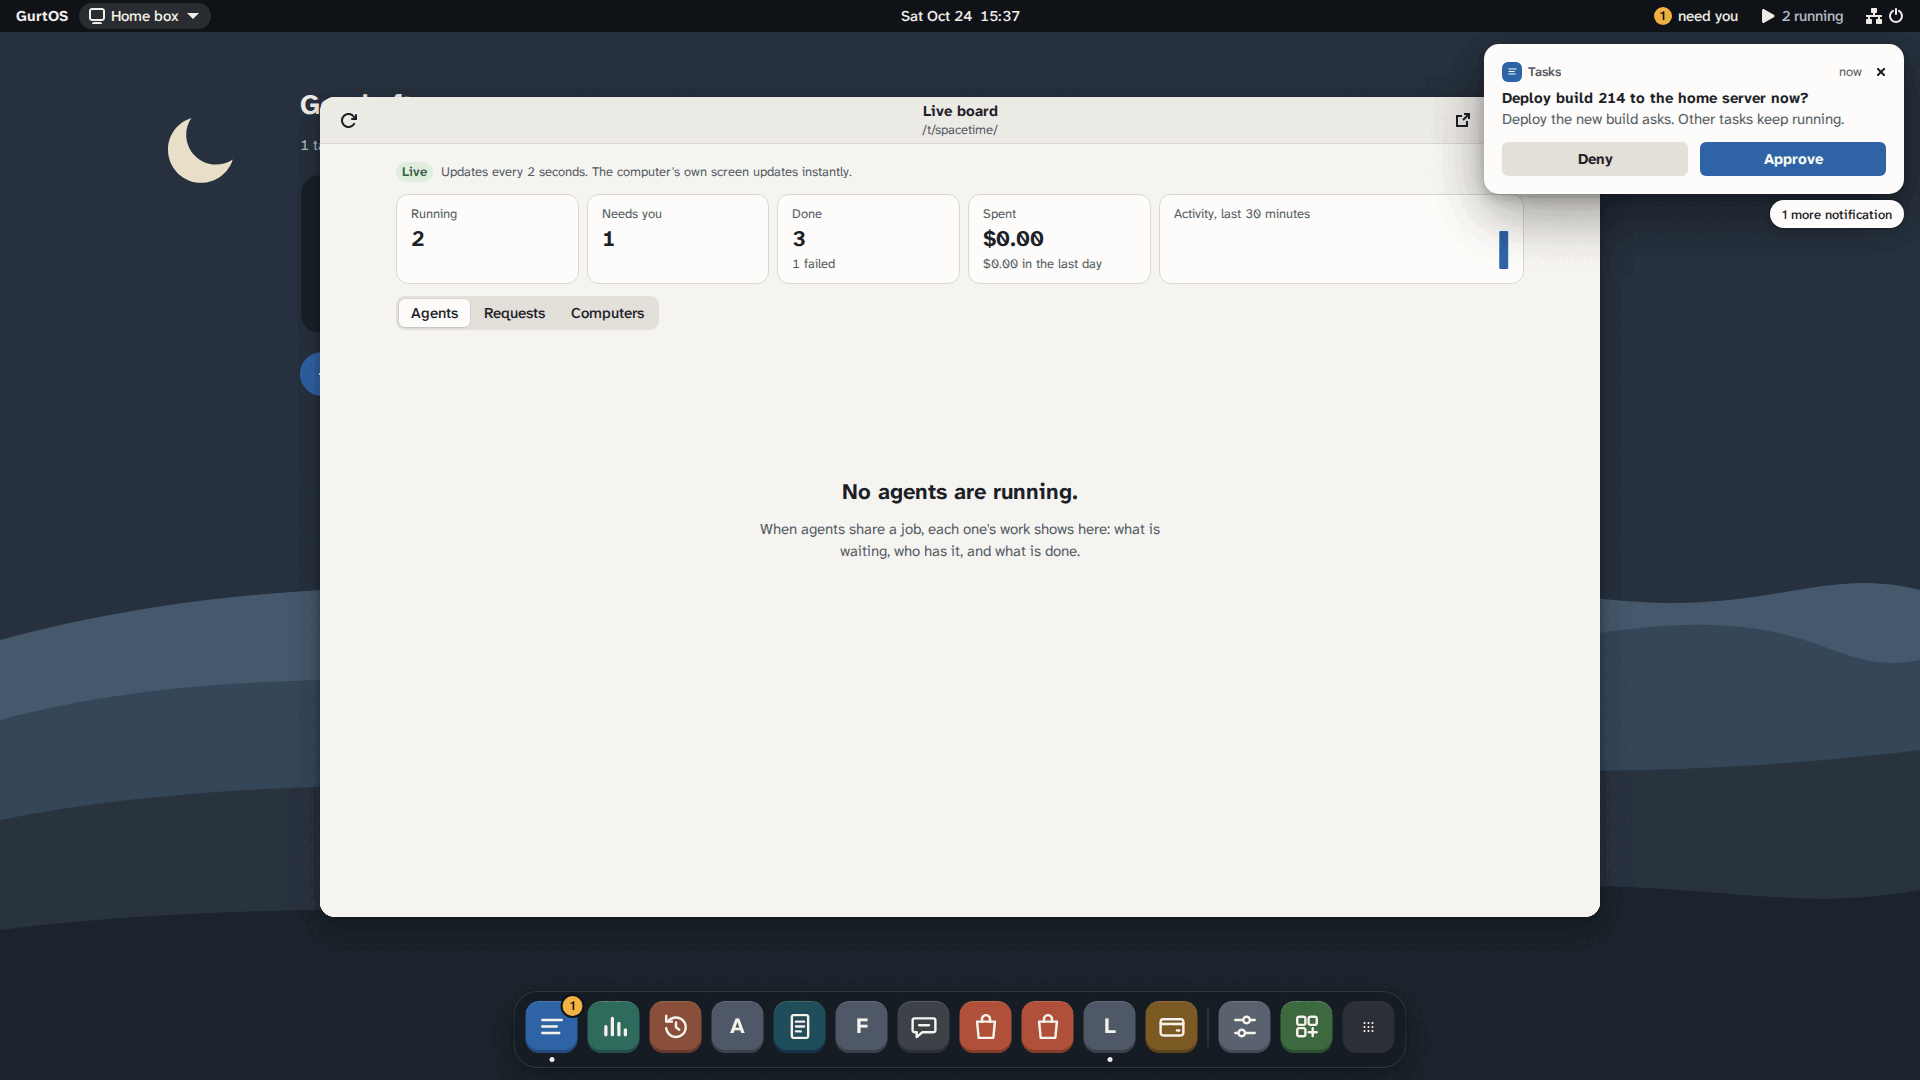
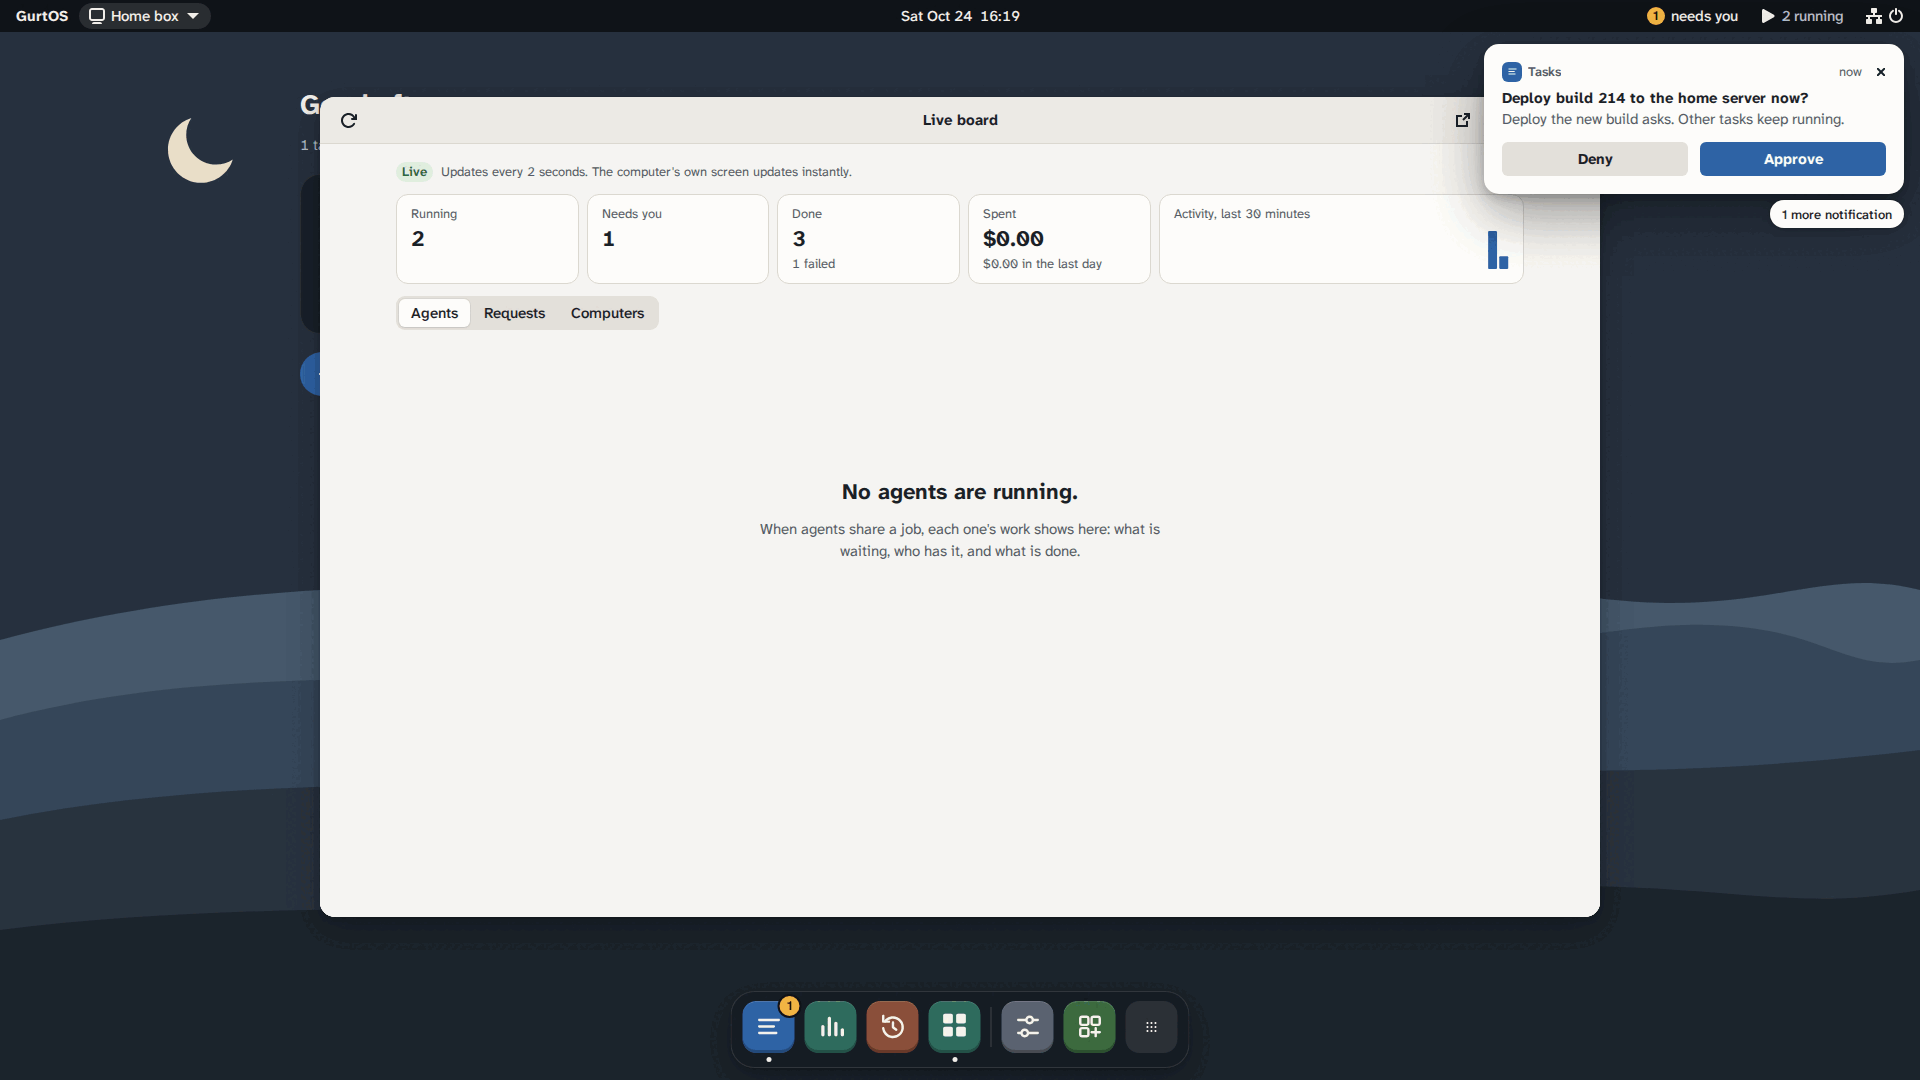
UX audit: portal's last four verified; portal has nothing open

diff --git a/docs/ux/audit.md b/docs/ux/audit.md
@@ -18,12 +18,11 @@ How it was walked:
 
 ## Status
 
-**Fixed 62, closed 1, open 29** (92 findings: 19 web, 22 Server, 36 Personal, 15 parity). Each fixed
+**Fixed 66, closed 1, open 25** (92 findings: 19 web, 22 Server, 36 Personal, 15 parity). Each fixed
 finding gets a **Fixed** line with the commit and an after-screenshot in `after/`.
 
 | Owner | Open |
 |---|---|
-| portal | W16, W17, W18, S27 |
 | apify track | A-1 |
 | personal | P-29 waits for Ben |
 | image | S2, S15, S16, S24, P-4, P-17, P-28, E-1 to E-11, E-15, then P-1 with release |
@@ -329,13 +328,19 @@ enforces...", "no FACTORY_GITHUB_REPO in the vault", "resets in 9008 min". ![](a
 "ASI one API key" and "Backup age recipient" in Accounts & Keys (`after/srv-settings-keys.png`). Fix: "ASI:One API
 key", "Backup encryption key". Owner: portal.
 
+
+**Fixed in 0c254e5** (portal). ![](after/srv-settings-keys.png)
 ### W17. P2. A window for an app that is off is titled with its route
 "factory/factory" over "This app is off or not installed". Fix: the app's title ("Factory"), and a Turn on button.
 Owner: portal.
 
+
+**Fixed in 0c254e5** (portal): "Factory is off" with Turn on. ![](after/srv-app-factory-off.png)
 ### W18. P2. Setup's privacy step shows a file path
 "/var/lib/box/log.jsonl". Fix: "The action log stays on this computer." Owner: portal.
 
+
+**Fixed in 0c254e5** (portal): "Where it lives: On this computer".
 ### A-1. P1. The Apify page is plain HTML
 Its own H1, browser-default table, and "what the box counted" (`after/srv-app-apify.png`). Fix: the kit like
 Factory and the Live board (9c6a719, bd87b04), "No Apify calls yet. When an agent reads a page or checks a price,
@@ -345,6 +350,8 @@ its cost shows here.", and "this computer". Owner: apify track.
 "/t/spacetime/", "/t/factory/" under the window title (`after/srv-app-live.png`). Fix: no subtitle, or the app's
 one-line description. Owner: portal.
 
+
+**Fixed in 0c254e5** (portal). ![](after/srv-app-live.png)
 ### S1. P1. A restart with no tasks says nothing
 ![](shots/server/50-plugpull-restored-desktop.png)
 After pulling the plug on a box with no tasks: GRUB, black, then the old windows, no message. With tasks running it
